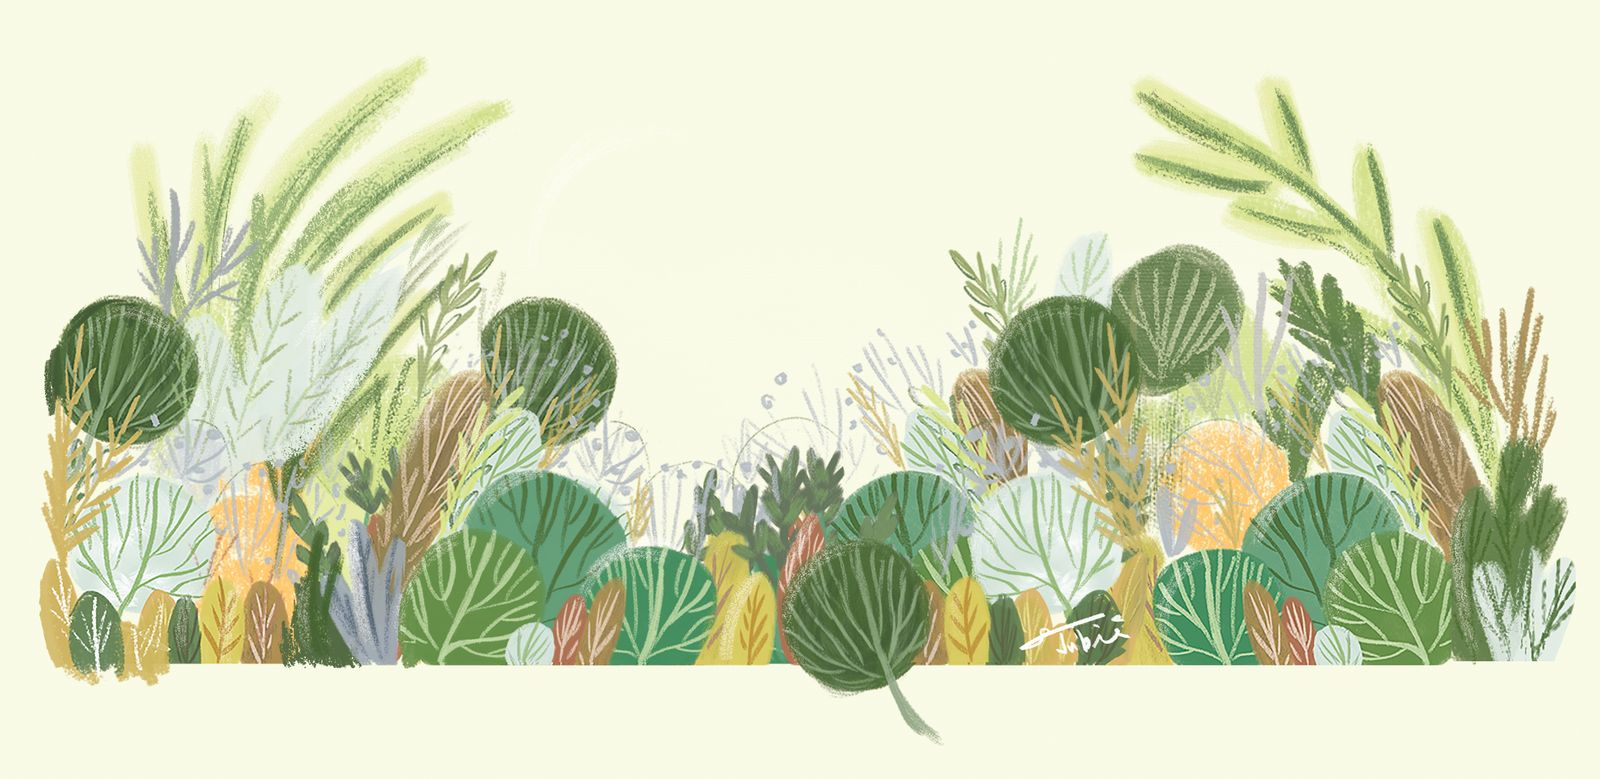
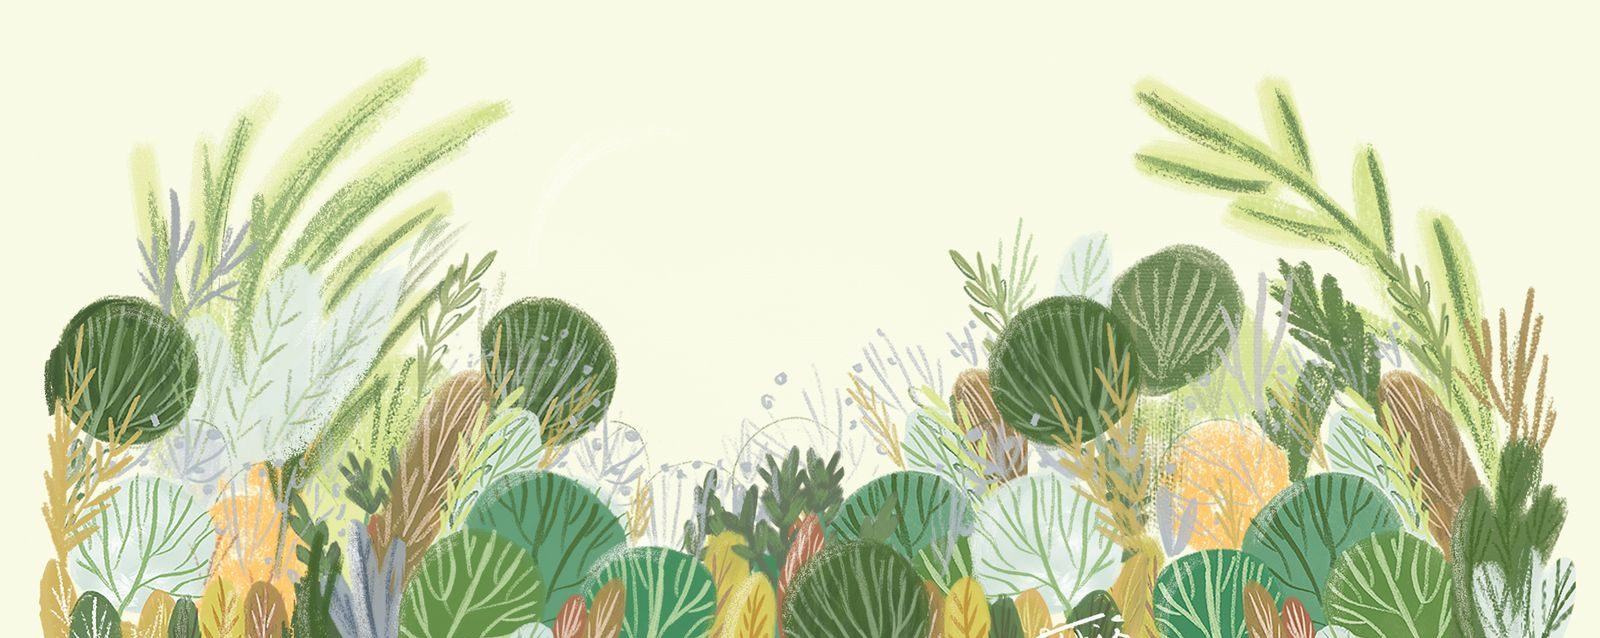
修正：背景圖裁切空白、手機章節改單次觸碰顯示tooltip

diff --git a/script.js b/script.js
@@ -155,19 +155,23 @@ document.addEventListener('DOMContentLoaded', () => {
     strip.innerHTML += clone;
   }
 
-  // ===== 手機版 TOC tooltip 點擊切換 =====
-  if ('ontouchstart' in window || navigator.maxTouchPoints > 0) {
+  // ===== 手機版 TOC tooltip 單次觸碰顯示 =====
+  const isTouchDevice = ('ontouchstart' in window || navigator.maxTouchPoints > 0);
+  if (isTouchDevice) {
     document.querySelectorAll('.toc-item').forEach(item => {
-      item.addEventListener('click', (e) => {
-        // 關閉其他已開的
-        document.querySelectorAll('.toc-item.show-tip').forEach(el => {
-          if (el !== item) el.classList.remove('show-tip');
-        });
-        item.classList.toggle('show-tip');
+      item.addEventListener('touchend', (e) => {
+        e.preventDefault(); // 防止觸發 hover 和 click 雙重事件
+        const wasOpen = item.classList.contains('show-tip');
+        // 先關閉所有
+        document.querySelectorAll('.toc-item.show-tip').forEach(el => el.classList.remove('show-tip'));
+        // 如果原本是關的，打開這個
+        if (!wasOpen) {
+          item.classList.add('show-tip');
+        }
       });
     });
-    // 點擊外部關閉
-    document.addEventListener('click', (e) => {
+    // 觸碰其他地方關閉
+    document.addEventListener('touchend', (e) => {
       if (!e.target.closest('.toc-item')) {
         document.querySelectorAll('.toc-item.show-tip').forEach(el => el.classList.remove('show-tip'));
       }

diff --git a/style.css b/style.css
@@ -912,8 +912,9 @@ a { color: inherit; }
   opacity: 1;
 }
 
-/* 手機：tooltip 改為點擊顯示，避免卡頓 */
+/* 手機：tooltip 點擊顯示 */
 @media (hover: none) {
+  .toc-item:hover .toc-tip { opacity: 0; }
   .toc-item.show-tip .toc-tip { opacity: 1; }
 }
 @media (max-width: 640px) {
